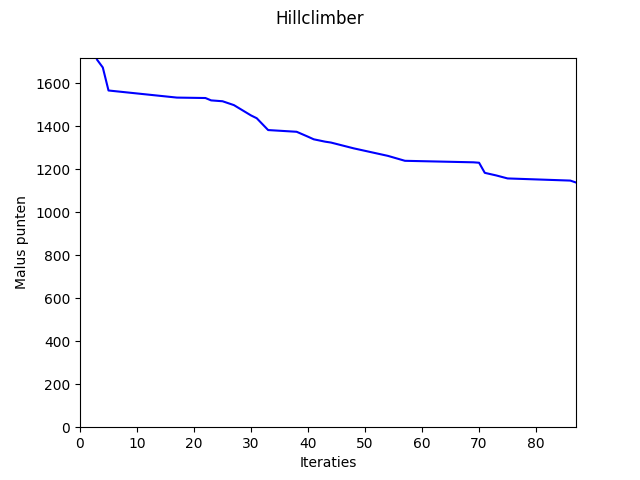
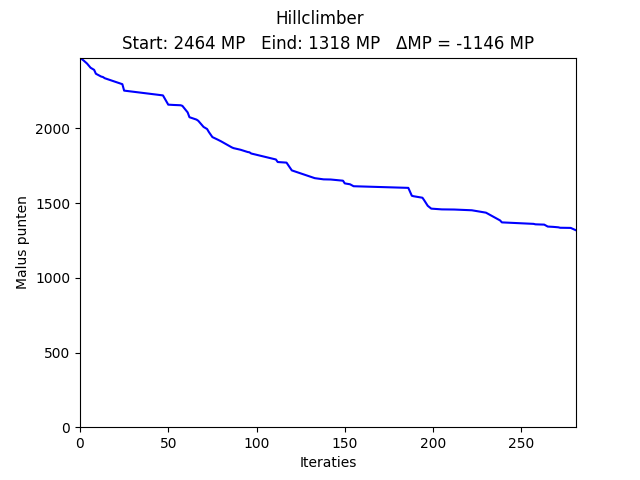
Random hillclimber, beter plots

diff --git a/code/algorithms/hillclimber.py b/code/algorithms/hillclimber.py
@@ -53,8 +53,8 @@ class Hillclimber_activities:
                 self.schedule.swap_roomslots(roomslot1, roomslot2)
                 unsuccessful += 1
             
-            if plot:
-                self.plot_results(mp_list, iterations_list)
+        if plot:
+            self.plot_results(mp_list, iterations_list)
 
         return mp_list, iterations_list
 
@@ -86,7 +86,8 @@ class Hillclimber_activities:
 
         # Plot and save results
         fig, ax = plt.subplots()
-        ax.set_title(f"Hillclimber {N} times")
+        plt.suptitle(f"Hillclimber {N} keer met threshold {threshold}")
+        ax.set_title(f"Beste resultaat: {min(mp_list)}MP")
         ax.set_xlabel("Iteraties")
         ax.set_ylabel("Malus punten")
         ax.set_xlim(0, max(iterations_list))
@@ -103,7 +104,8 @@ class Hillclimber_activities:
         # Set plot limits
         ax.set_xlim(0, max(iterations_list))
         ax.set_ylim(0, max(mp_list) + 10)
-        plt.suptitle("Hillclimber")
+        plt.suptitle("Hillclimber (Random)")
+        ax.set_title(f"Start: {mp_list[0]} MP   Eind: {mp_list[-1]} MP   \u0394MP = {mp_list[-1] - mp_list[0]} MP")
         ax.set_xlabel("Iteraties")
         ax.set_ylabel("Malus punten")
         ax.plot(iterations_list, mp_list, color = "blue")

diff --git a/main.py b/main.py
@@ -38,14 +38,15 @@ if __name__ == "__main__":
 
 
     #-----------------------Hillclimber random
-    if False:
+    if True:
         # Run 1 Time
         random_hillclimber = hillclimber.Hillclimber_activities(schedule)
-        random_hillclimber.run(100)
-        random_hillclimber.plot_results(animate=True)
+        mp_list, iterations_list = random_hillclimber.run(100)
+        print(mp_list, iterations_list)
+        random_hillclimber.plot_results(mp_list, iterations_list, animate=True)
         print("Hillclimber DONE \n\n")
     
-    if True:
+    if False:
         print("Run hillclimber N times")
         # helpers.blockPrint()
         # Run N times
